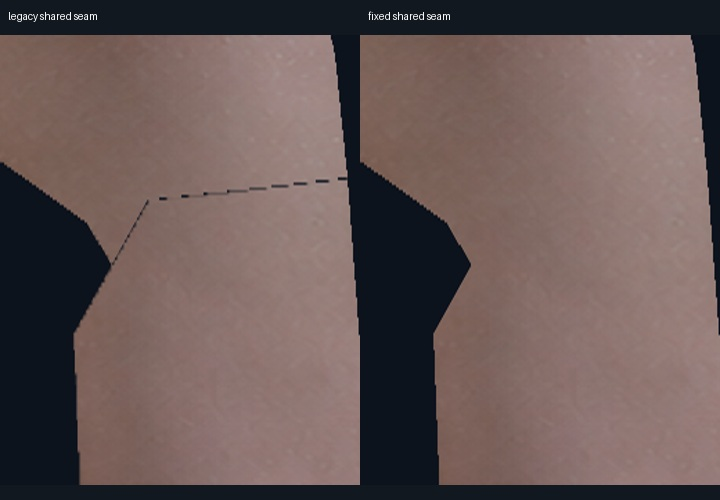
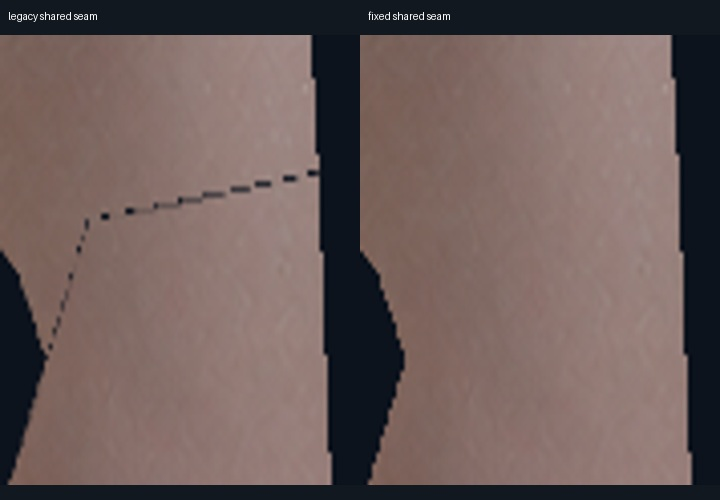
Preserve donor anatomy aspect in authoring viewport and introduce a bounded inferred connected front surface

Changed region(s): [[0.3056, 0.06, 0.6722, 0.99], [0.0, 0.33, 0.3056, 0.99], [0.9167, 0.06, 1.0, 0.99]]

diff --git a/tests/render_component_junction_gles.py b/tests/render_component_junction_gles.py
@@ -8,13 +8,13 @@ subprocess.run(['node','tests/component-deform-regression.mjs'],cwd=g.ROOT,check
 near=os.environ.get('COMPONENT_DONOR')=='nearDown';suffix='-near-down' if near else '';prefix='near-down' if near else 'side-b'
 mesh=json.loads(Path('/tmp/f14-component-warp'+suffix+'.json').read_text());parts=json.loads((g.ROOT/('references/derived/'+prefix+'-cutout-manifest.json')).read_text())['components']
 p=g.createProgram()
-shaders=json.loads(subprocess.check_output(['node','--input-type=module','-e',"import {componentVertexShader,componentFragmentShader} from './character-prototype/preview/component-raster.mjs';console.log(JSON.stringify([componentVertexShader,componentFragmentShader]));"],cwd=g.ROOT,text=True))
-vs,frag=[s.encode() for s in shaders]
+shaders=json.loads(subprocess.check_output(['node','--input-type=module','-e',"import {componentVertexShader,componentFragmentShader,fitComponentCrop} from './character-prototype/preview/component-raster.mjs';console.log(JSON.stringify([componentVertexShader,componentFragmentShader,fitComponentCrop(process.env.COMPONENT_DONOR==='nearDown'?[790,380,240,660]:[640,295,330,360],540,588)]));"],cwd=g.ROOT,text=True))
+vs,frag=[s.encode() for s in shaders[:2]];viewportCrop=shaders[2]
 if os.environ.get('COMPONENT_LEGACY_ALPHA')=='1':frag=b'precision mediump float;varying vec2 v_uv;uniform sampler2D u_image;void main(){gl_FragColor=texture2D(u_image,v_uv);}'
 for src,kind in [(vs,0x8B31),(frag,0x8B30)]:
  s=g.createShader(kind);raw=C.c_char_p(src);g.shaderSource(s,1,C.byref(raw),None);g.compileShader(s);ok=g.I();g.getShader(s,0x8B81,C.byref(ok));assert ok.value;g.attach(p,s)
 g.link(p);ok=g.I();g.getProgram(p,0x8B82,C.byref(ok));assert ok.value;g.use(p)
-g.gl('glUniform4f',None,g.I,g.F,g.F,g.F,g.F)(g.getUniform(p,b'u_crop'),*([790,380,240,660] if near else [640,295,330,360]));g.viewport(0,0,540,588);g.disable(0x0B71);g.enable(0x0BE2);g.blend(0x0302 if os.environ.get('COMPONENT_LEGACY_ALPHA')=='1' else 1,0x0303);g.activeTexture(0x84C0);g.uniform1i(g.getUniform(p,b'u_image'),0)
+g.gl('glUniform4f',None,g.I,g.F,g.F,g.F,g.F)(g.getUniform(p,b'u_crop'),*viewportCrop);g.viewport(0,0,540,588);g.disable(0x0B71);g.enable(0x0BE2);g.blend(0x0302 if os.environ.get('COMPONENT_LEGACY_ALPHA')=='1' else 1,0x0303);g.activeTexture(0x84C0);g.uniform1i(g.getUniform(p,b'u_image'),0)
 textures=[]
 for part in parts:
  t=g.U();g.genTexture(1,C.byref(t));g.bindTexture(0x0DE1,t)
@@ -39,4 +39,4 @@ for i,(label,im) in enumerate(zip(['Same donor shared rest topology','Shared MLS
 if os.environ.get('COMPONENT_RAW_TAG'):
  for i,im in enumerate(frames):im.save('/tmp/f14-components-'+os.environ['COMPONENT_RAW_TAG']+'-'+str(i)+'.png')
 out.save(g.ROOT/('validation/f14-component-deform-gles'+suffix+'.jpg'),quality=92)
-(g.ROOT/('validation/f14-component-deform-gles'+suffix+'.json')).write_text(json.dumps({'renderer':g.getString(0x1F01).decode(),'actualGles':True,'image':('validation/f14-component-deform-gles'+suffix+'.jpg'),'gain':.55,'sameDonorOnly':True,'registeredToMain':False,'visualSeamAcceptance':False,'phoneTested':False},indent=2)+'\n');print('Actual GLES shared donor junction rendered; no main/phone acceptance')
+(g.ROOT/('validation/f14-component-deform-gles'+suffix+'.json')).write_text(json.dumps({'renderer':g.getString(0x1F01).decode(),'actualGles':True,'image':('validation/f14-component-deform-gles'+suffix+'.jpg'),'viewportCrop':viewportCrop,'sourceAspectPreserved':True,'gain':.55,'sameDonorOnly':True,'registeredToMain':False,'visualSeamAcceptance':False,'phoneTested':False},indent=2)+'\n');print('Actual GLES shared donor junction rendered; no main/phone acceptance')
